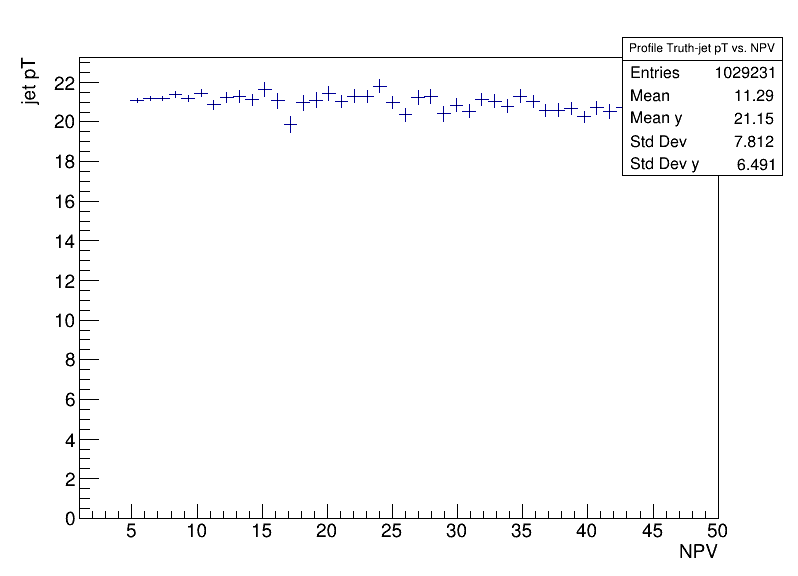
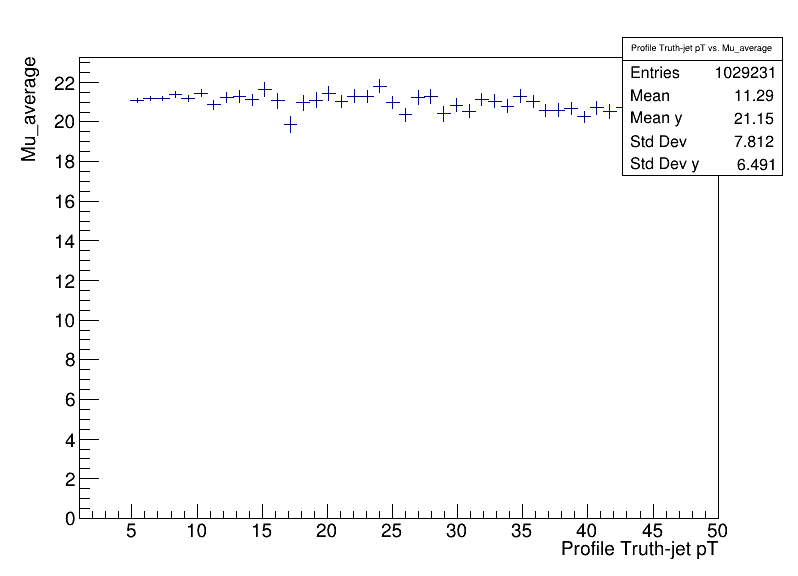
1st, 2nd and 3rd exercises complete, oder ich glaube das

Changed region(s): [[0.6917, 0.9375, 0.9023, 0.9688], [0.782, 0.0625, 0.9624, 0.0938], [0.0301, 0.0938, 0.0602, 0.2812]]

diff --git a/Jets/Jets_Ex1_macro.cpp b/Jets/Jets_Ex1_macro.cpp
@@ -115,11 +115,15 @@ void Jets_Ex1_macro(){
   float mu = -1;
   tree->SetBranchAddress("mu_average", &mu);
     
-  TH2F *hist_Rjetpt_npv = new TH2F("Reco-jet pT vs. NPV",";NPV; jet pT",50,1,50, 20, 0, 200);
-  TProfile *prof_Rjetpt_npv = new TProfile("Profile Reco-jet pT vs. NPV",";NPV; jet pT",50,1,50, 0, 200);
+  TH2F *hist_Rjetpt_npv = new TH2F("Reco-jet pT vs. NPV","Reco-jet;NPV; jet pT",50,1,50, 20, 0, 200);
+  TProfile *prof_Rjetpt_npv = new TProfile("Profile Reco-jet pT vs. NPV","Profile Reco-jet pT;NPV; jet pT",50,1,50, 0, 200);
+  TH2F *hist_Rjetpt_mu = new TH2F("Reco-jet pT vs. Mu_average","Reco-jet pT;Mu_average; jet pT",50,1,50, 20, 0, 200);
+  TProfile *prof_Rjetpt_mu = new TProfile("Profile Reco-jet pT vs. Mu_average","Profile Reco-jet pT;Mu_average; jet pT",50,1,50, 0, 200);
 
-  TH2F *hist_Tjetpt_npv = new TH2F("Truthjet pT vs. NPV",";NPV; jet pT",50,1,50, 20, 0, 200);
-  TProfile *prof_Tjetpt_npv = new TProfile("Profile Truth-jet pT vs. NPV",";NPV; jet pT",50,1,50, 0, 200);
+  TH2F *hist_Tjetpt_npv = new TH2F("Truthjet pT vs. Mu_average","Truthjet pT ;Mu_average; jet pT",50,1,50, 20, 0, 200);
+  TProfile *prof_Tjetpt_npv = new TProfile("Profile Truth-jet pT vs. Mu_average",";Profile Truth-jet pT;Mu_average; jet pT",50,1,50, 0, 200);
+  TH2F *hist_Tjetpt_mu = new TH2F("Truthjet pT vs. Mu_average","Truthjet pT ;Mu_average; jet pT",50,1,50, 20, 0, 200);
+  TProfile *prof_Tjetpt_mu = new TProfile("Profile Truth-jet pT vs. Mu_average",";Profile Truth-jet pT;Mu_average; jet pT",50,1,50, 0, 200);
     
   //int nentries, nbytes, i;
   //nentries = (Int_t)tree->GetEntries();
@@ -140,6 +144,20 @@ void Jets_Ex1_macro(){
               prof_Tjetpt_npv->Fill(truth_R4_pt->at(j)/1000.,npv,evtw);
           }
       }
+      
+      if(reco_R4_pt->size()!=0 && reco_R4_pt->at(0)>20000.){
+          for(int j=0; j<reco_R4_pt->size(); j++){
+              hist_Rjetpt_mu->Fill(reco_R4_pt->at(j)/1000.,mu,evtw);
+              prof_Rjetpt_mu->Fill(reco_R4_pt->at(j)/1000.,mu,evtw);
+          }
+      }
+      
+      if(truth_R4_pt->size()!=0 && truth_R4_pt->at(0)>20000.){
+          for(int j=0; j<truth_R4_pt->size(); j++){
+              hist_Tjetpt_mu->Fill(truth_R4_pt->at(j)/1000.,mu,evtw);
+              prof_Tjetpt_mu->Fill(truth_R4_pt->at(j)/1000.,mu,evtw);
+          }
+      }
   }
 
   std::cout << "Done 2" << std::endl;
@@ -155,6 +173,16 @@ void Jets_Ex1_macro(){
   canvas2->Print("Graphs/Truth_npv.png");
   prof_Tjetpt_npv->Draw("");
   canvas2->Print("Graphs/Truth_npv_prof.png");
+    
+  hist_Rjetpt_mu->Draw("colz"); 
+  canvas2->Print("Graphs/Reco_mu.png");
+  prof_Rjetpt_mu->Draw("");
+  canvas2->Print("Graphs/Reco_mu_prof.png");
+    
+  hist_Tjetpt_mu->Draw("colz"); 
+  canvas2->Print("Graphs/Truth_mu.png");
+  prof_Tjetpt_mu->Draw("");
+  canvas2->Print("Graphs/Truth_mu_prof.png");
   canvas2->Draw();
     
   //## Exercise 3 ##
@@ -184,10 +212,13 @@ void Jets_Ex1_macro(){
     
   // Applying cut
     
-  TH1F *hist_Cleadreco_jvf = new TH1F("Lead Reco-jet JVF","Leading-R jet JVF; JVF;Events",20,-1,1);
-  TH1F *hist_Cleadreco100_jvf = new TH1F("Lead Reco-jet JVF","Leading-R jet JVF; JVF;Events",20,-1,1);
-  TH1F *hist_Cleadtruth_jvf = new TH1F("Lead Truth-jet JVF","Leading-T jet JVF; JVF;Events",20,-1,1);
-  TH1F *hist_Cleadtruth100_jvf = new TH1F("Lead Truth-jet JVF","Leading-T jet JVF; JVF;Events",20,-1,1);
+  TH1F *hist_Cleadreco_jvf = new TH1F("Lead Reco-jet JVF","Leading-R jet JVF (|JVF|>0.5); JVF;Events",20,-1,1);
+  TH1F *hist_Cleadreco100_jvf = new TH1F("Lead Reco-jet JVF","Leading-R jet JVF (|JVF|>0.5); JVF;Events",20,-1,1);
+  TH1F *hist_Cleadtruth_jvf = new TH1F("Lead Truth-jet JVF","Leading-T jet JVF (|JVF|>0.5); JVF;Events",20,-1,1);
+  TH1F *hist_Cleadtruth100_jvf = new TH1F("Lead Truth-jet JVF","Leading-T jet JVF (|JVF|>0.5); JVF;Events",20,-1,1);
+    
+  //TProfile *prof_CRjetpt_npv = new TProfile("Profile Reco-jet pT vs. NPV","Profile Reco-jet pT (|JVF|>0.5);NPV; jet pT",50,1,50, 0, 200);
+  //TProfile *prof_CTjetpt_npv = new TProfile("Profile Truth-jet pT vs. NPV","(|JVF|>0.5);Profile Truth-jet pT NPV; jet pT",50,1,50, 0, 200);
    
   for (i = 0; i < nentries; i++){
       nbytes = tree->GetEntry(i);
@@ -195,11 +226,19 @@ void Jets_Ex1_macro(){
       if(reco_R4_pt->size()!=0 && reco_R4_pt->at(0)>20000. && reco_R4_jvf->at(0)>0.5 ){
           hist_Cleadreco_jvf->Fill(reco_R4_jvf->at(0), evtw);
           if(reco_R4_pt->at(0)>100000.){hist_Cleadreco100_jvf->Fill(reco_R4_jvf->at(0), evtw);}
+          
+          //for(int j=0; j<reco_R4_pt->size(); j++){
+            //  prof_CRjetpt_npv->Fill(reco_R4_pt->at(j)/1000.,npv,evtw);
+          //}
       }
       
       if(reco_R4_pt->size()!=0 && reco_R4_pt->at(0)>20000. && reco_R4_jvf->at(0)>0.5 ){
           hist_Cleadtruth_jvf->Fill(reco_R4_jvf->at(0), evtw);
           if(reco_R4_pt->at(0)>100000.){hist_Cleadtruth100_jvf->Fill(reco_R4_jvf->at(0), evtw);}
+          
+          //for(int j=0; j<truth_R4_pt->size(); j++){
+            //  prof_CTjetpt_npv->Fill(truth_R4_pt->at(j)/1000.,npv,evtw);
+          //}
       }
   }
   
@@ -236,6 +275,61 @@ void Jets_Ex1_macro(){
   hist_Cleadtruth100_jvf->SetMarkerColor(kBlue);
   hist_Cleadtruth100_jvf->DrawNormalized("same");
   canvas2->Print("Graphs/CleadT_jvf.png");
+  canvas2->Draw();
+    
+  //## Exercise 4 ##
+    
+  vector<float> *reco_R4_eta;
+  vector<float> *reco_R4_phi;
+  vector<float> *reco_R4_m;
+  tree->SetBranchAddress("RecoJets_R4_eta", &reco_R4_eta);
+  tree->SetBranchAddress("RecoJets_R4_phi", &reco_R4_phi);
+  tree->SetBranchAddress("RecoJets_R4_m", &reco_R4_m);
+    
+  vector<float> *truth_R4_eta;
+  vector<float> *truth_R4_phi;
+  vector<float> *truth_R4_m;
+  tree->SetBranchAddress("TruthJets_R4_eta", &truth_R4_eta);
+  tree->SetBranchAddress("TruthJets_R4_phi", &truth_R4_phi);
+  tree->SetBranchAddress("TruthJets_R4_m", &truth_R4_m);
+    
+  TH1F *hist_DR_reco_truth = new TH1F("Delta R reco","Delta R; #Delta R; Events",20,0,2);
+  TH1F *hist_DR_Creco_truth = new TH1F("Delta R reco","Delta R (|JVF|>0.5); #Delta R; Events",20,0,2);
+
+  for (i = 0; i < nentries; i++){
+      nbytes = tree->GetEntry(i);
+
+      if(truth_R4_pt->size()!=0 && truth_R4_pt->at(0)>20000.){
+          TLorentzVector truthJet;
+    truthJet.SetPtEtaPhiM(truth_R4_pt->at(0),truth_R4_eta->at(0),truth_R4_phi->at(0),truth_R4_m->at(0));
+          if(reco_R4_pt->size()!=0 && fabs(reco_R4_jvf->at(0))>0.5){      
+              TLorentzVector recoJet;
+    recoJet.SetPtEtaPhiM(reco_R4_pt->at(0),reco_R4_eta->at(0),reco_R4_phi->at(0),reco_R4_m->at(0));
+        //Plot the Delta R
+        hist_DR_reco_truth->Fill(truthJet.DeltaR(recoJet),evtw);}
+      }
+      
+      //Aplying Cut
+      if(truth_R4_pt->size()!=0 && truth_R4_pt->at(0)>20000. && reco_R4_jvf->at(0)>0.5){
+          TLorentzVector truthJet;
+    truthJet.SetPtEtaPhiM(truth_R4_pt->at(0),truth_R4_eta->at(0),truth_R4_phi->at(0),truth_R4_m->at(0));
+          if(reco_R4_pt->size()!=0 && fabs(reco_R4_jvf->at(0))>0.5){      
+              TLorentzVector recoJet;
+    recoJet.SetPtEtaPhiM(reco_R4_pt->at(0),reco_R4_eta->at(0),reco_R4_phi->at(0),reco_R4_m->at(0));
+        //Plot the Delta R
+        hist_DR_Creco_truth->Fill(truthJet.DeltaR(recoJet),evtw);}
+      }
+  }
+
+  std::cout << "Done 4!" << std::endl;
+    
+  hist_DR_reco_truth->Scale(1/hist_DR_reco_truth->Integral());
+  hist_DR_reco_truth->DrawNormalized("");
+  canvas2->Print("Graphs/DR_RT.png");
+    
+  hist_DR_Creco_truth->Scale(1/hist_DR_reco_truth->Integral());
+  hist_DR_Creco_truth->DrawNormalized("");
+  canvas2->Print("Graphs/DR_RT_Cut.png");
   canvas2->Draw();
     
 }
